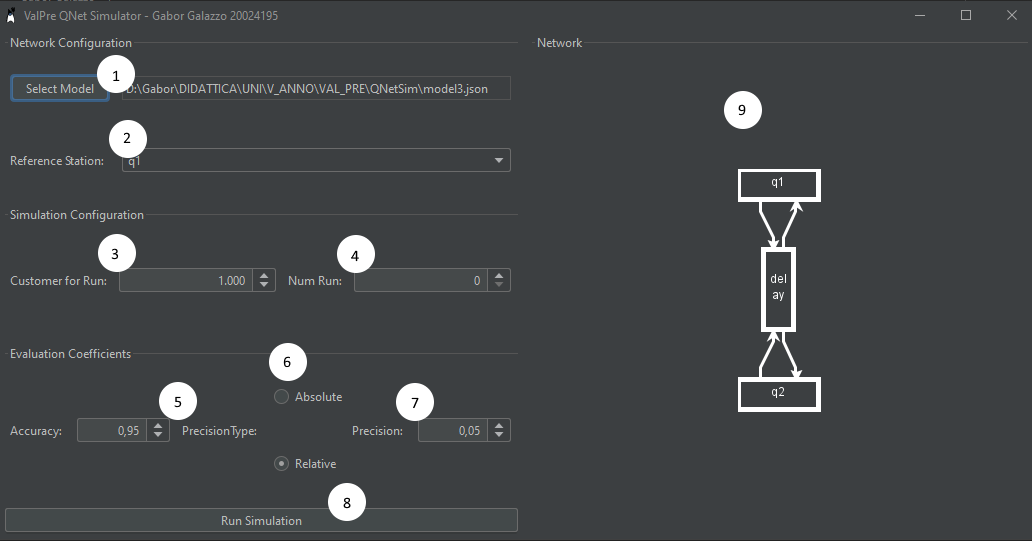
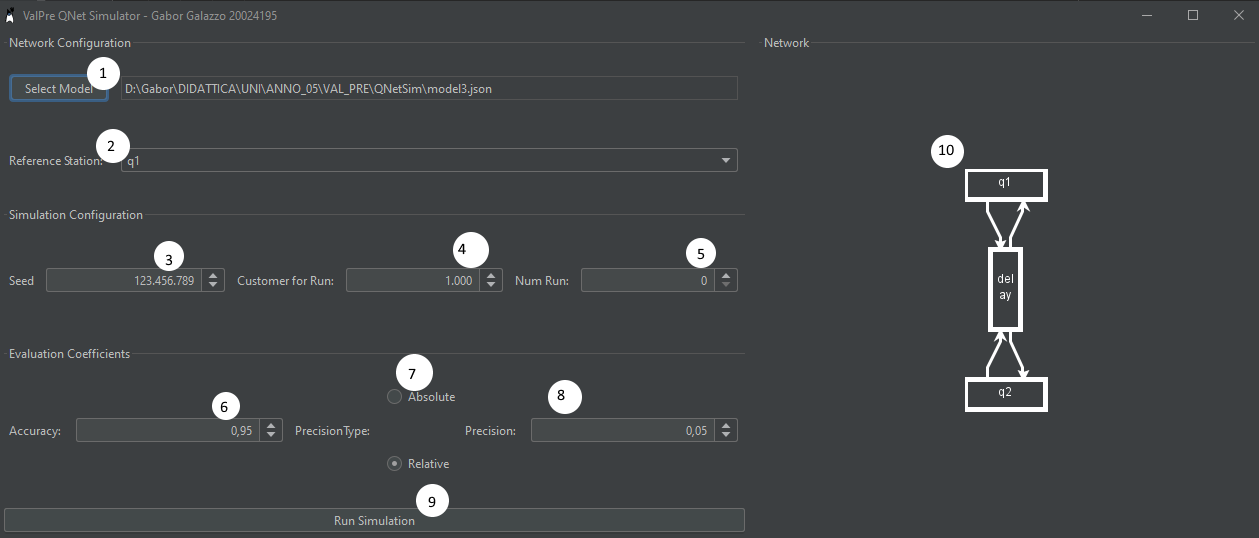
aggiunto seed

diff --git a/src/main/java/uniupo/valpre/bcnnsim/gui/MainGUI.java b/src/main/java/uniupo/valpre/bcnnsim/gui/MainGUI.java
@@ -16,7 +16,6 @@ import java.awt.*;
 import java.awt.event.ActionEvent;
 import java.awt.event.ActionListener;
 import java.io.File;
-import java.io.PrintStream;
 import java.nio.file.Files;
 import java.nio.file.Paths;
 import java.util.Comparator;
@@ -29,6 +28,7 @@ import java.util.concurrent.atomic.AtomicReference;
 
 import com.mxgraph.swing.mxGraphComponent;
 import com.mxgraph.view.mxGraph;
+import uniupo.valpre.bcnnsim.random.LehmerGenerator;
 import uniupo.valpre.bcnnsim.sim.MultiRunNetworkReport;
 import uniupo.valpre.bcnnsim.sim.Simulator;
 
@@ -46,6 +46,7 @@ public class MainGUI {
 	private JButton runSimulationButton;
 	private JPanel networkPanel;
 	private mxGraphComponent mxGraphComponent;
+	private JSpinner seedField;
 
 
 	private final Gson gson = new GsonBuilder().setPrettyPrinting().create();
@@ -57,6 +58,7 @@ public class MainGUI {
 
 		$$$setupUI$$$();
 		numRunField.setModel((new SpinnerNumberModel(0, 0, 100000000, 1)));
+		seedField.setModel((new SpinnerNumberModel(LehmerGenerator.DEFAULT_SEED, 0, 9999999999L, 1)));
 		numCustomerField.setModel((new SpinnerNumberModel(1000, 0, 100000000, 1)));
 		accuracyField.setModel(new SpinnerNumberModel(0.95, 0.0, 1.0, 0.01));
 		precisionField.setModel(new SpinnerNumberModel(0.05, 0.0, 1.0, 0.01));
@@ -117,7 +119,7 @@ public class MainGUI {
 			final AtomicReference<DefaultTableModel> lastModel = new AtomicReference<>(null);
 			final AtomicLong progress = new AtomicLong(0);
 			final Thread t = new Thread(() -> {
-				var simulator = new Simulator();
+				var simulator = new Simulator(((Double) seedField.getModel().getValue()).longValue());
 
 				var inputNumRun = ((int) numRunField.getValue());
 				var numRun = inputNumRun;
@@ -269,19 +271,24 @@ public class MainGUI {
 		referenceStationComboBox.setEnabled(false);
 		panel2.add(referenceStationComboBox, new GridConstraints(1, 1, 1, 1, GridConstraints.ANCHOR_WEST, GridConstraints.FILL_HORIZONTAL, GridConstraints.SIZEPOLICY_CAN_GROW, GridConstraints.SIZEPOLICY_FIXED, null, null, null, 0, false));
 		final JPanel panel3 = new JPanel();
-		panel3.setLayout(new GridLayoutManager(1, 4, new Insets(3, 3, 3, 3), -1, -1));
+		panel3.setLayout(new GridLayoutManager(1, 6, new Insets(3, 3, 3, 3), -1, -1));
 		mainPanel.add(panel3, new GridConstraints(1, 0, 1, 4, GridConstraints.ANCHOR_CENTER, GridConstraints.FILL_BOTH, GridConstraints.SIZEPOLICY_CAN_SHRINK | GridConstraints.SIZEPOLICY_CAN_GROW, GridConstraints.SIZEPOLICY_CAN_SHRINK | GridConstraints.SIZEPOLICY_CAN_GROW, null, null, null, 0, false));
 		panel3.setBorder(BorderFactory.createTitledBorder(null, "Simulation Configuration", TitledBorder.DEFAULT_JUSTIFICATION, TitledBorder.DEFAULT_POSITION, null, null));
 		final JLabel label5 = new JLabel();
 		label5.setText("Customer for Run:");
-		panel3.add(label5, new GridConstraints(0, 0, 1, 1, GridConstraints.ANCHOR_WEST, GridConstraints.FILL_NONE, GridConstraints.SIZEPOLICY_FIXED, GridConstraints.SIZEPOLICY_FIXED, null, null, null, 0, false));
+		panel3.add(label5, new GridConstraints(0, 2, 1, 1, GridConstraints.ANCHOR_WEST, GridConstraints.FILL_NONE, GridConstraints.SIZEPOLICY_FIXED, GridConstraints.SIZEPOLICY_FIXED, null, null, null, 0, false));
 		numCustomerField = new JSpinner();
-		panel3.add(numCustomerField, new GridConstraints(0, 1, 1, 1, GridConstraints.ANCHOR_WEST, GridConstraints.FILL_HORIZONTAL, GridConstraints.SIZEPOLICY_WANT_GROW, GridConstraints.SIZEPOLICY_FIXED, null, null, null, 0, false));
+		panel3.add(numCustomerField, new GridConstraints(0, 3, 1, 1, GridConstraints.ANCHOR_WEST, GridConstraints.FILL_HORIZONTAL, GridConstraints.SIZEPOLICY_WANT_GROW, GridConstraints.SIZEPOLICY_FIXED, null, null, null, 0, false));
 		final JLabel label6 = new JLabel();
 		label6.setText("Num Run:");
-		panel3.add(label6, new GridConstraints(0, 2, 1, 1, GridConstraints.ANCHOR_WEST, GridConstraints.FILL_NONE, GridConstraints.SIZEPOLICY_FIXED, GridConstraints.SIZEPOLICY_FIXED, null, null, null, 0, false));
+		panel3.add(label6, new GridConstraints(0, 4, 1, 1, GridConstraints.ANCHOR_WEST, GridConstraints.FILL_NONE, GridConstraints.SIZEPOLICY_FIXED, GridConstraints.SIZEPOLICY_FIXED, null, null, null, 0, false));
 		numRunField = new JSpinner();
-		panel3.add(numRunField, new GridConstraints(0, 3, 1, 1, GridConstraints.ANCHOR_WEST, GridConstraints.FILL_HORIZONTAL, GridConstraints.SIZEPOLICY_WANT_GROW, GridConstraints.SIZEPOLICY_FIXED, null, null, null, 0, false));
+		panel3.add(numRunField, new GridConstraints(0, 5, 1, 1, GridConstraints.ANCHOR_WEST, GridConstraints.FILL_HORIZONTAL, GridConstraints.SIZEPOLICY_WANT_GROW, GridConstraints.SIZEPOLICY_FIXED, null, null, null, 0, false));
+		final JLabel label7 = new JLabel();
+		label7.setText("Seed");
+		panel3.add(label7, new GridConstraints(0, 0, 1, 1, GridConstraints.ANCHOR_WEST, GridConstraints.FILL_NONE, GridConstraints.SIZEPOLICY_FIXED, GridConstraints.SIZEPOLICY_FIXED, null, null, null, 0, false));
+		seedField = new JSpinner();
+		panel3.add(seedField, new GridConstraints(0, 1, 1, 1, GridConstraints.ANCHOR_WEST, GridConstraints.FILL_HORIZONTAL, GridConstraints.SIZEPOLICY_WANT_GROW, GridConstraints.SIZEPOLICY_FIXED, null, null, null, 0, false));
 		runSimulationButton = new JButton();
 		runSimulationButton.setEnabled(false);
 		runSimulationButton.setText("Run Simulation");
@@ -299,4 +306,5 @@ public class MainGUI {
 	public JComponent $$$getRootComponent$$$() {
 		return mainPanel;
 	}
+
 }

diff --git a/src/main/java/uniupo/valpre/bcnnsim/sim/Simulator.java b/src/main/java/uniupo/valpre/bcnnsim/sim/Simulator.java
@@ -25,11 +25,26 @@ import java.util.stream.IntStream;
 
 public class Simulator {
 	private final MultipleStreamGenerator streamsGenerator = new MultipleLehmerStreamGenerator();
-	private final List<RandomGenerator> streams = streamsGenerator.generateStreams(LehmerGenerator.DEFAULT_SEED);
+	private final List<RandomGenerator> streams;
 	private final HashMap<String, RandomGenerator> activityStreams = new HashMap<>();
 	private final HashMap<String, RandomGenerator> routingStreams = new HashMap<>();
 	private int usedStreams = 0;
 	private ArrayList<NetworkReport> allReports = new ArrayList<>();
+
+	public Simulator() {
+		this(LehmerGenerator.DEFAULT_SEED);
+
+	}
+
+	public Simulator(long seed) {
+		streams = streamsGenerator.generateStreams(seed);
+	}
+
+
+	public void setSeed(long seed) {
+		streams.clear();
+		streams.addAll(streamsGenerator.generateStreams(seed));
+	}
 
 
 	public MultiRunNetworkReport runSimulation(QueueNetwork originalNetwork, int numRuns, String referenceStation, long maxNumOfDeparture,

diff --git a/README.md b/README.md
@@ -19,19 +19,20 @@ Una volta avviato l'applicativo si aprerà la schermata seguente
 
 #### Simulation Configuration
 
-3. **Customer for Run**: Numero di clienti serviti prima di terminare la simulazione dalla stazione di riferimento
-4. **Num Runs**: Numero di run da effettuare (in parallelo)
+3. **Seed**: Simulation random streams seed
+4. **Customer for Run**: Numero di clienti serviti prima di terminare la simulazione dalla stazione di riferimento
+5. **Num Runs**: Numero di run da effettuare (in parallelo)
 
 #### Evaluation Coefficients
 
-5. **Accuracy**: L'accuratezza in percentuale desiderata per le metriche
-6. **Precision Type**: Scelta della precisione se Assoluta o Relativa
-7. **Precision**: Precisione dell'accuratezza delle metriche
+6. **Accuracy**: L'accuratezza in percentuale desiderata per le metriche
+7. **Precision Type**: Scelta della precisione se Assoluta o Relativa
+8. **Precision**: Precisione dell'accuratezza delle metriche
 
 #### Interface
 
-8. **Run Simulation**: Avvia la simulazione
-9. **Network**: Rappresentazione grafica della Rete di Code
+9. **Run Simulation**: Avvia la simulazione
+10. **Network**: Rappresentazione grafica della Rete di Code
 
 Una volta avviata la simulazione comparirà una dinestra con una barra progresso in cui vengono riportate le metriche
 generate ad ogni run di simulazione
@@ -45,7 +46,7 @@ generate ad ogni run di simulazione
 3. **Metrics**: La metrica valutata dul nodo
 4. **Mean**: Il valore medio della metrica sulle più run
 5. **SD**: Deviazione Standard della metrica sulle più run
-6. **Coefficient**: T COnfidence Interval
+6. **Coefficient**: T Confidence Interval - Stima intervallare
 7. **Min Runs**: Stima delle run necessarie a raggiungere l'accuracy desiderata con la precision specificata
 8. **Accuracy Reached**: Indica se l'accuracy desiderata con tale precisione è stata raggiunta
 
